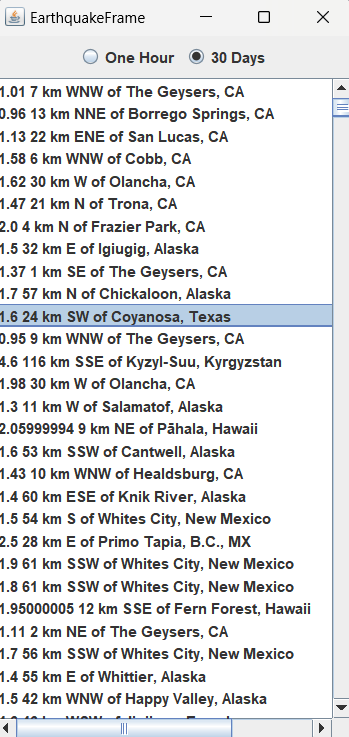
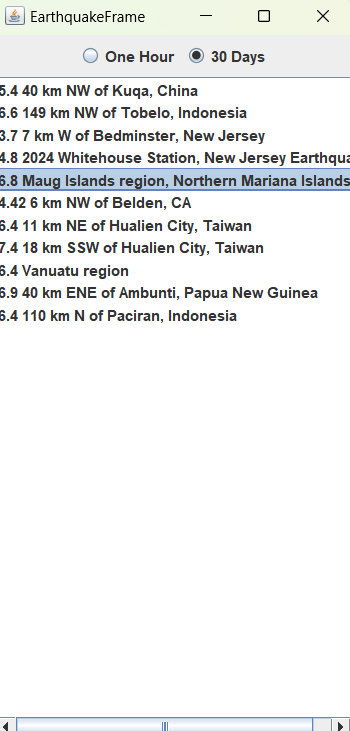
earthquakes homework edits

diff --git a/src/main/java/mandel/earthquake/EarthquakeFrame.java b/src/main/java/mandel/earthquake/EarthquakeFrame.java
@@ -14,6 +14,8 @@ import java.awt.*;
 import java.awt.event.ActionEvent;
 import java.awt.event.ActionListener;
 import java.io.IOException;
+import java.net.URI;
+import java.net.URISyntaxException;
 
 public class EarthquakeFrame extends JFrame {
 
@@ -92,12 +94,13 @@ public class EarthquakeFrame extends JFrame {
                 Feature feature = currentResponse.features[earthquakeList.getSelectedIndex()];
                 double lng = feature.geometry.coordinates[0];
                 double lat = feature.geometry.coordinates[1];
-                Runtime rt = Runtime.getRuntime();
-                String url = "http://maps.google.com/maps?q= " + lat + ", " + lng;
-                try {
-                    rt.exec("rundll32 url.dll,FileProtocolHandler " + url);
-                } catch (IOException ex) {
-                    throw new RuntimeException(ex);
+                if (Desktop.isDesktopSupported() && Desktop.getDesktop().isSupported(Desktop.Action.BROWSE)) {
+                    try {
+                        Desktop.getDesktop().browse(
+                                new URI("https://www.google.com/maps/search/?api=1&query=" + lat + "," + lng));
+                    } catch (Exception ex) {
+                        throw new RuntimeException(ex);
+                    }
                 }
             }
         });

diff --git a/src/main/java/mandel/earthquake/EarthquakeService.java b/src/main/java/mandel/earthquake/EarthquakeService.java
@@ -9,6 +9,6 @@ public interface EarthquakeService
     @GET("/earthquakes/feed/v1.0/summary/1.0_hour.geojson")
     Single<FeatureCollection> oneHour();
 
-    @GET("/earthquakes/feed/v1.0/summary/1.0_month.geojson")
+    @GET("/earthquakes/feed/v1.0/summary/significant_month.geojson")
     Single<FeatureCollection> oneMonth();
 }

diff --git a/src/main/java/mandel/earthquake/json/Geometry.java b/src/main/java/mandel/earthquake/json/Geometry.java
@@ -2,8 +2,5 @@ package mandel.earthquake.json;
 
 public class Geometry
 {
-    public double longitude;
-    public double latitude;
-    public double depth;
-    public double[] coordinates = {longitude, latitude, depth};
+    public double[] coordinates;
 }

diff --git a/README.md b/README.md
@@ -1,6 +1,6 @@
 # Earthquake Service
 
-This program shows the most recent 1.0 scale earthquakes.
+This program shows the most recent earthquakes.
 The user has an option to choose whether they want to see earthquakes 
 from the last hour or from the last 30 days.
 When a location is clicked, it automatically takes the user to the exact coordinates
